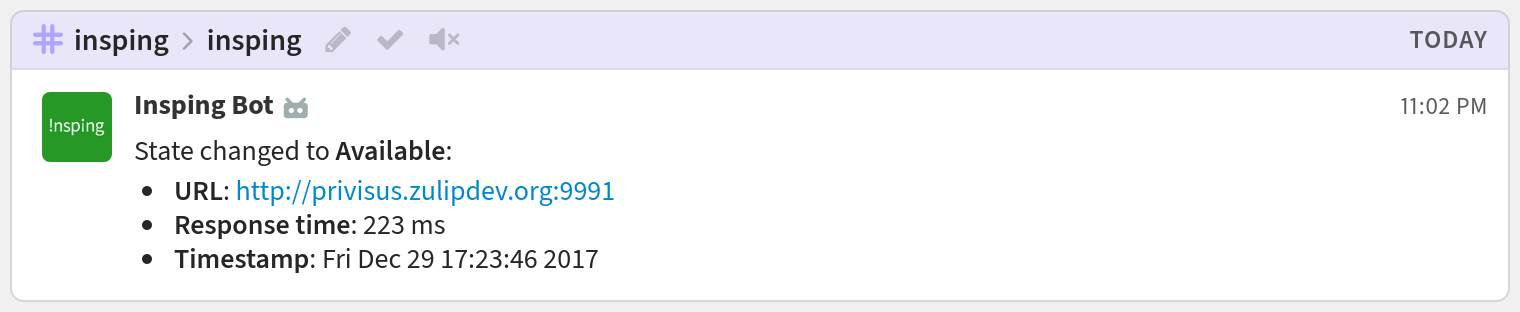
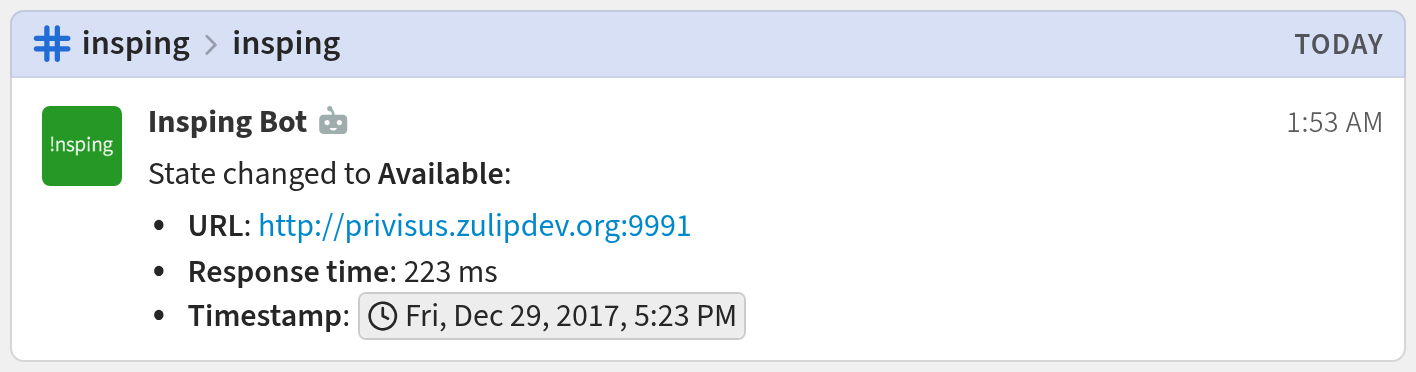
integrations/insping: Use global time.

diff --git a/zerver/webhooks/insping/tests.py b/zerver/webhooks/insping/tests.py
@@ -12,7 +12,7 @@ class InspingHookTests(WebhookTestCase):
 State changed to **Available**:
 * **URL**: http://privisus.zulipdev.org:9991
 * **Response time**: 223 ms
-* **Timestamp**: Fri Dec 29 17:23:46 2017
+* **Timestamp**: <time:Fri Dec 29 17:23:46 2017>
 """.strip()
 
         self.check_webhook(
@@ -28,7 +28,7 @@ State changed to **Available**:
 State changed to **Not Responding**:
 * **URL**: http://privisus.zulipdev.org:9991
 * **Response time**: 942 ms
-* **Timestamp**: Fri Dec 29 17:13:46 2017
+* **Timestamp**: <time:Fri Dec 29 17:13:46 2017>
 """.strip()
 
         self.check_webhook(

diff --git a/zerver/webhooks/insping/view.py b/zerver/webhooks/insping/view.py
@@ -13,7 +13,7 @@ MESSAGE_TEMPLATE = """
 State changed to **{state}**:
 * **URL**: {url}
 * **Response time**: {response_time} ms
-* **Timestamp**: {timestamp}
+* **Timestamp**: <time:{timestamp}>
 """.strip()
 
 
